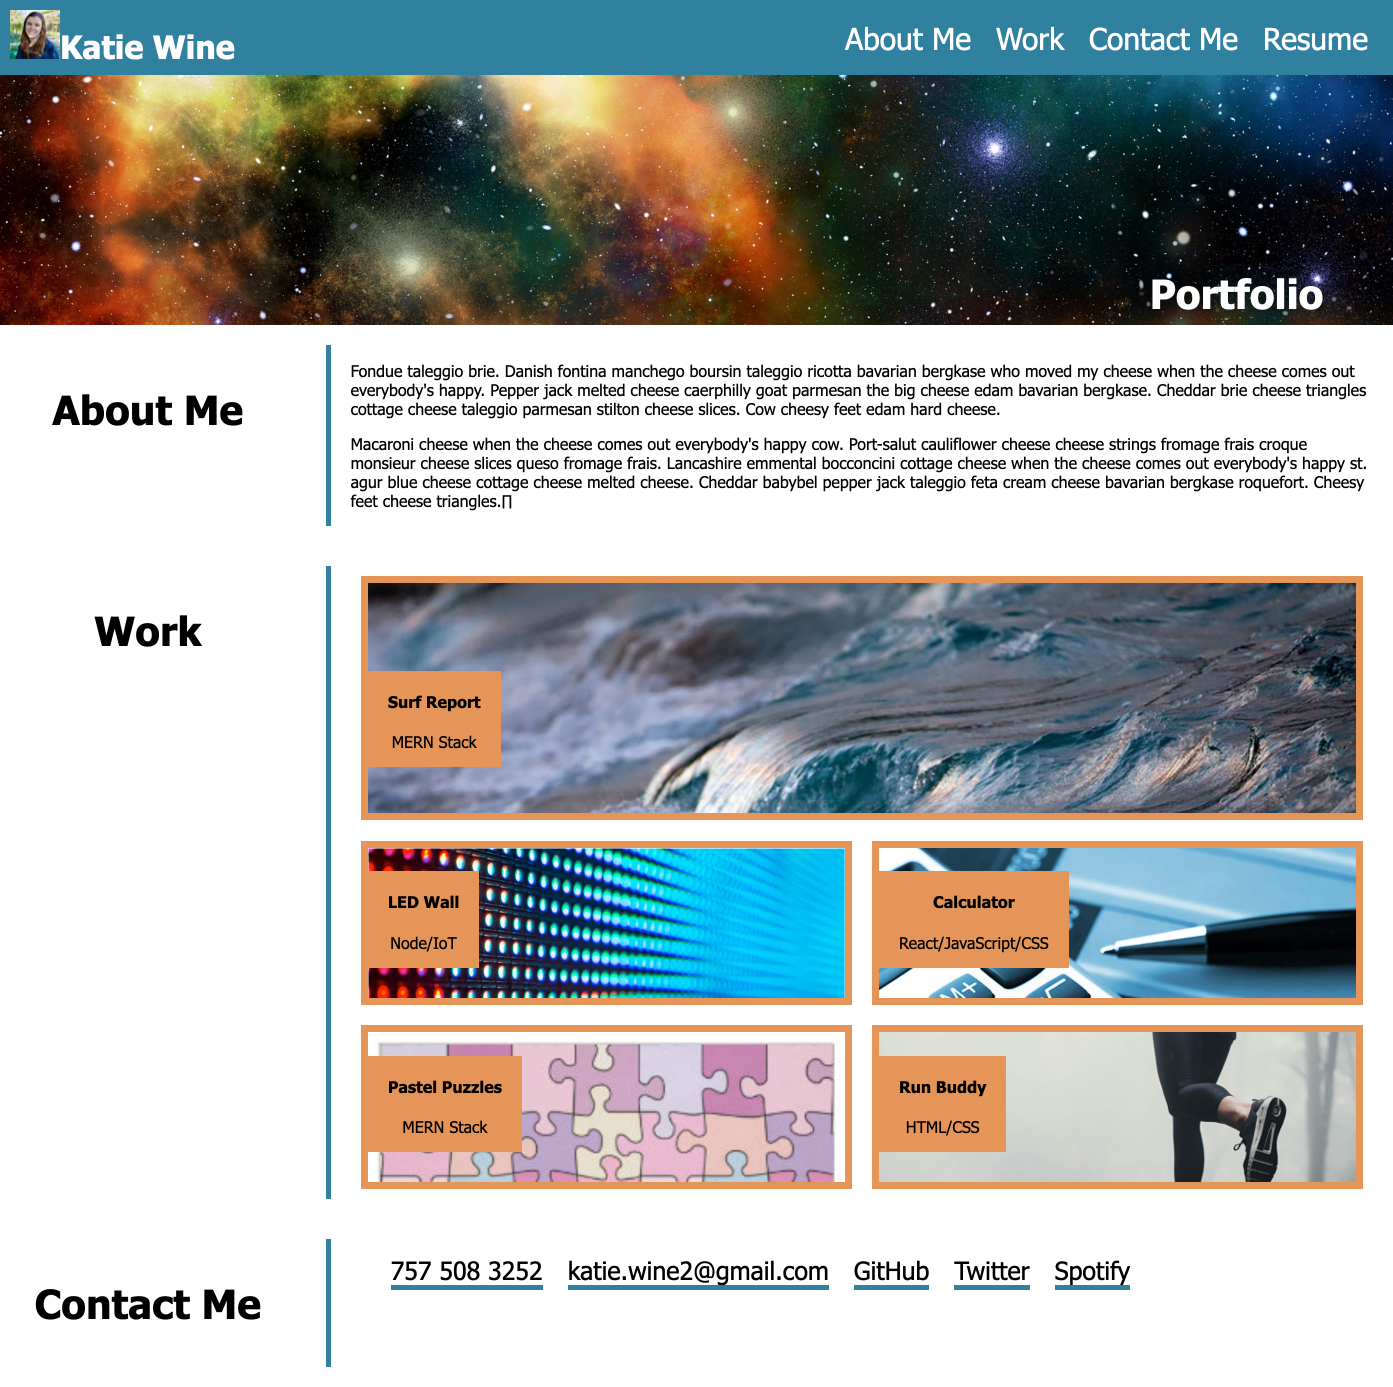
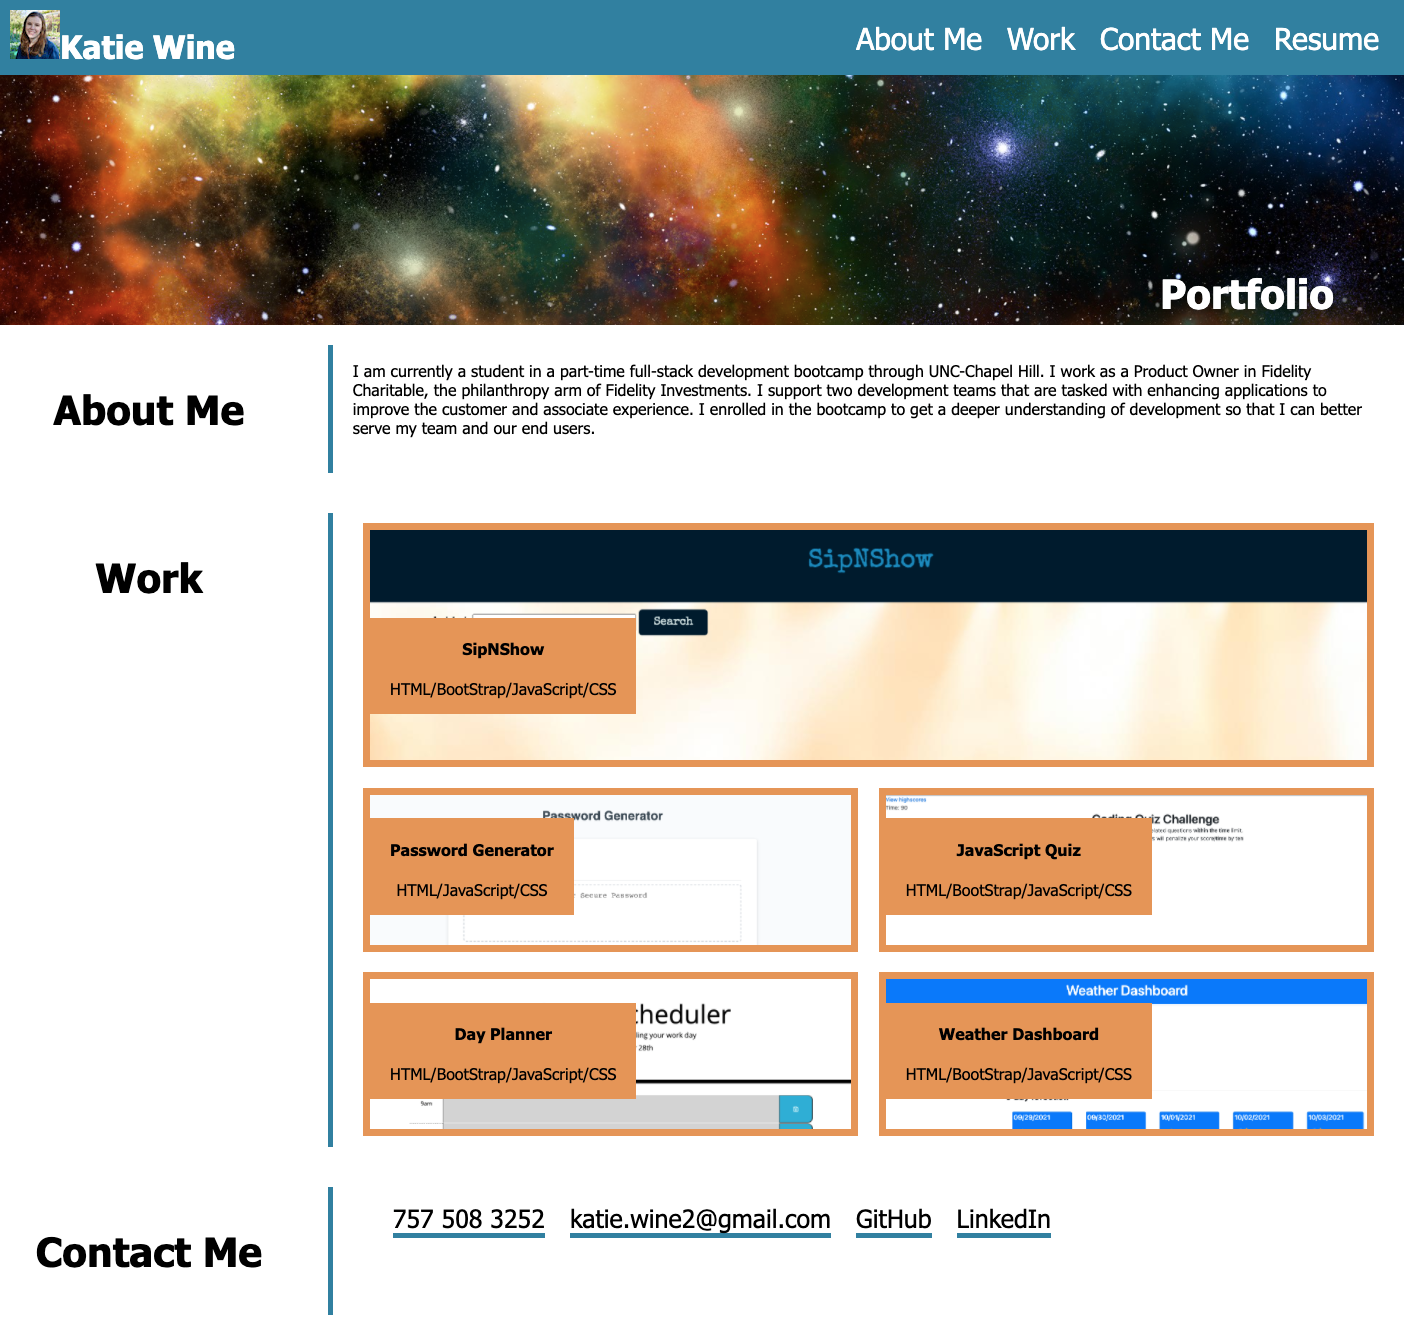
updating about me and screenshot in readme

diff --git a/index.html b/index.html
@@ -33,21 +33,7 @@
         </div>
         <div class="info about-me">
           <p>
-            Fondue taleggio brie. Danish fontina manchego boursin taleggio
-            ricotta bavarian bergkase who moved my cheese when the cheese comes
-            out everybody's happy. Pepper jack melted cheese caerphilly goat
-            parmesan the big cheese edam bavarian bergkase. Cheddar brie cheese
-            triangles cottage cheese taleggio parmesan stilton cheese slices.
-            Cow cheesy feet edam hard cheese.
-          </p>
-          <p>
-            Macaroni cheese when the cheese comes out everybody's happy cow.
-            Port-salut cauliflower cheese cheese strings fromage frais croque
-            monsieur cheese slices queso fromage frais. Lancashire emmental
-            bocconcini cottage cheese when the cheese comes out everybody's
-            happy st. agur blue cheese cottage cheese melted cheese. Cheddar
-            babybel pepper jack taleggio feta cream cheese bavarian bergkase
-            roquefort. Cheesy feet cheese triangles.∏
+            I am currently a student in a part-time full-stack development bootcamp through UNC-Chapel Hill. I work as a Product Owner in Fidelity Charitable, the philanthropy arm of Fidelity Investments. I support two development teams that are tasked with enhancing applications to improve the customer and associate experience. I enrolled in the bootcamp to get a deeper understanding of development so that I can better serve my team and our end users. 
           </p>
         </div>
       </section>
